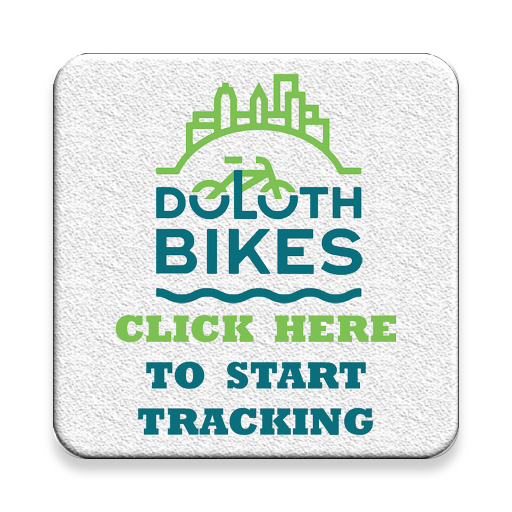
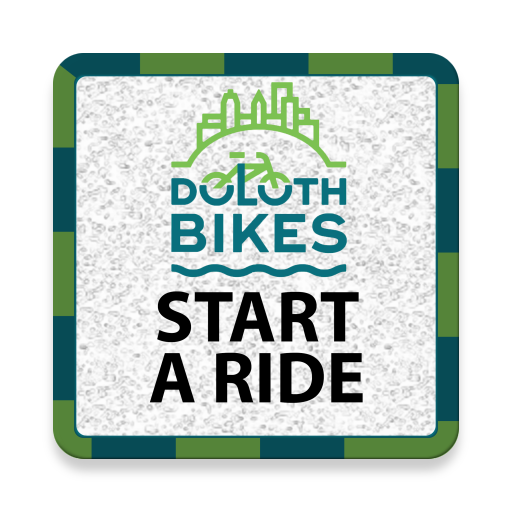
added a few layout changes to cancel ride button also changed start button again

diff --git a/android/app/src/main/java/com/example/sam/duluthbikes/MainActivity.java b/android/app/src/main/java/com/example/sam/duluthbikes/MainActivity.java
@@ -10,6 +10,7 @@ import android.os.Bundle;
 import android.support.v4.app.ActivityCompat;
 import android.support.v4.app.FragmentActivity;
 import android.view.View;
+import android.widget.FrameLayout;
 import android.widget.LinearLayout;
 import android.widget.TextView;
 import android.widget.Toast;
@@ -54,7 +55,7 @@ public class MainActivity extends FragmentActivity
     private SupportMapFragment mapFragment;
     private TextView tvSpeed;
     private TextView tvDistance;
-    private LinearLayout linearLayout;
+    private FrameLayout linearLayout;
 
     @Override
     protected void onCreate(Bundle savedInstanceState) {
@@ -113,7 +114,7 @@ public class MainActivity extends FragmentActivity
         tv.setVisibility(View.GONE);
         tvDistance = (TextView) findViewById(R.id.distanceMain);
         tvSpeed = (TextView) findViewById(R.id.speed);
-        linearLayout = (LinearLayout) findViewById(R.id.cancelButton);
+        linearLayout = (FrameLayout) findViewById(R.id.cancelButton);
         linearLayout.setVisibility(View.GONE);
     }
 
